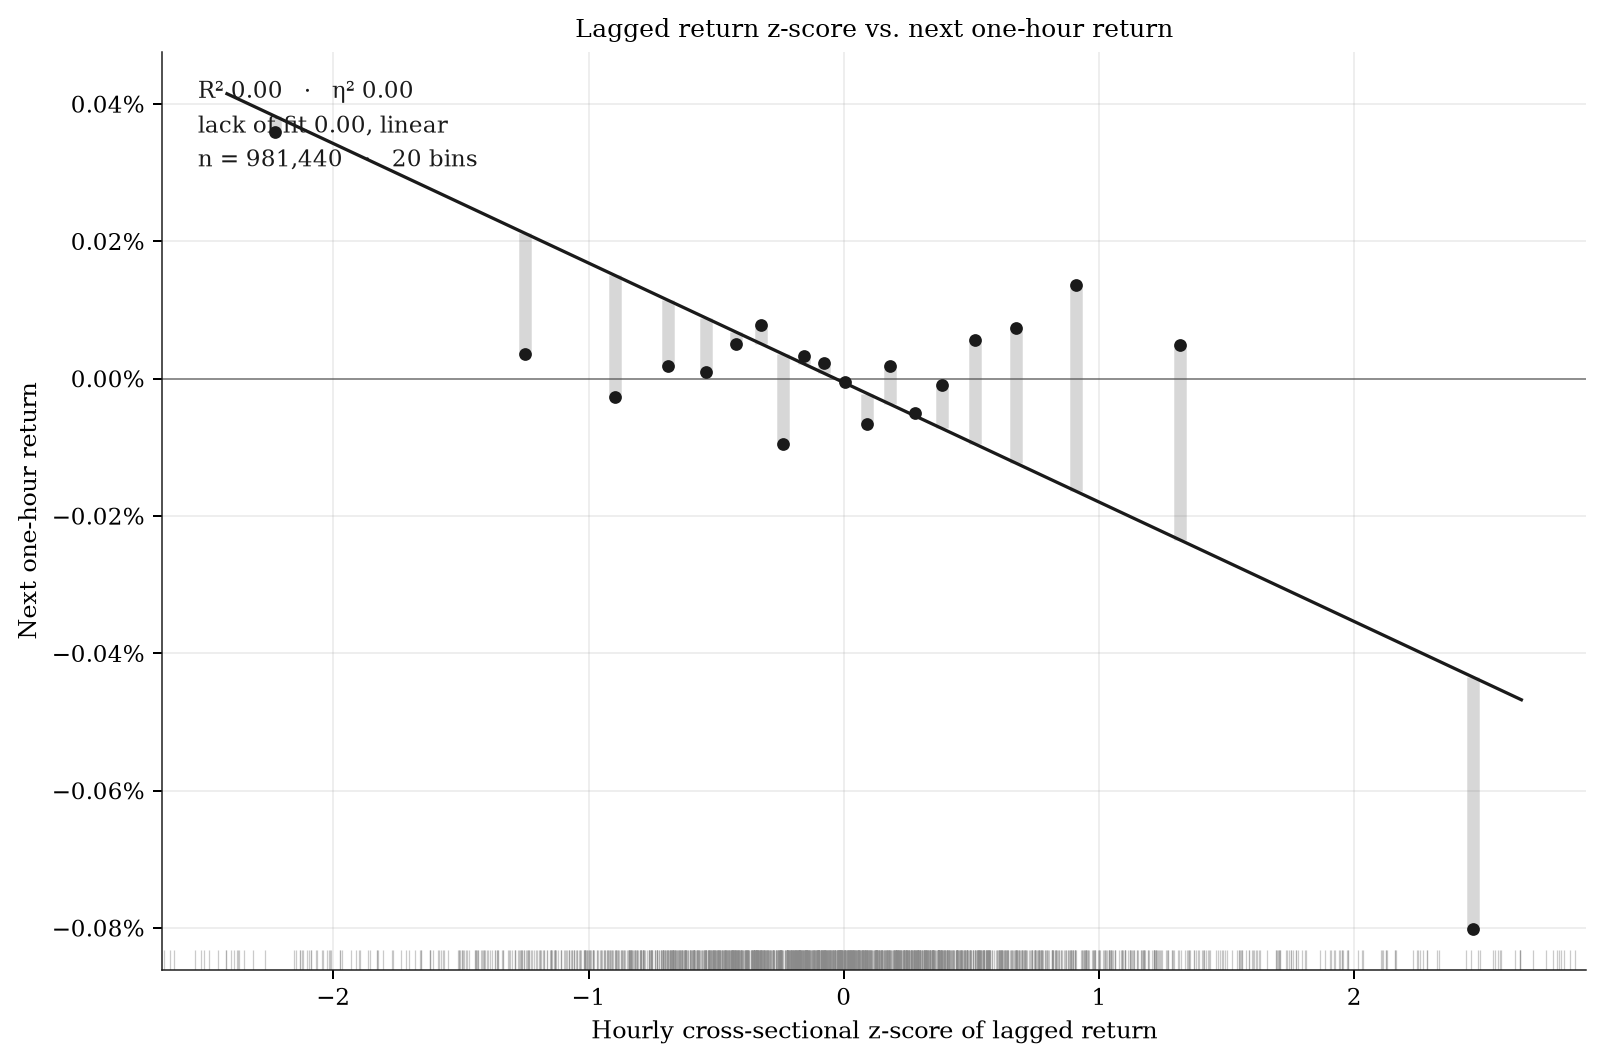
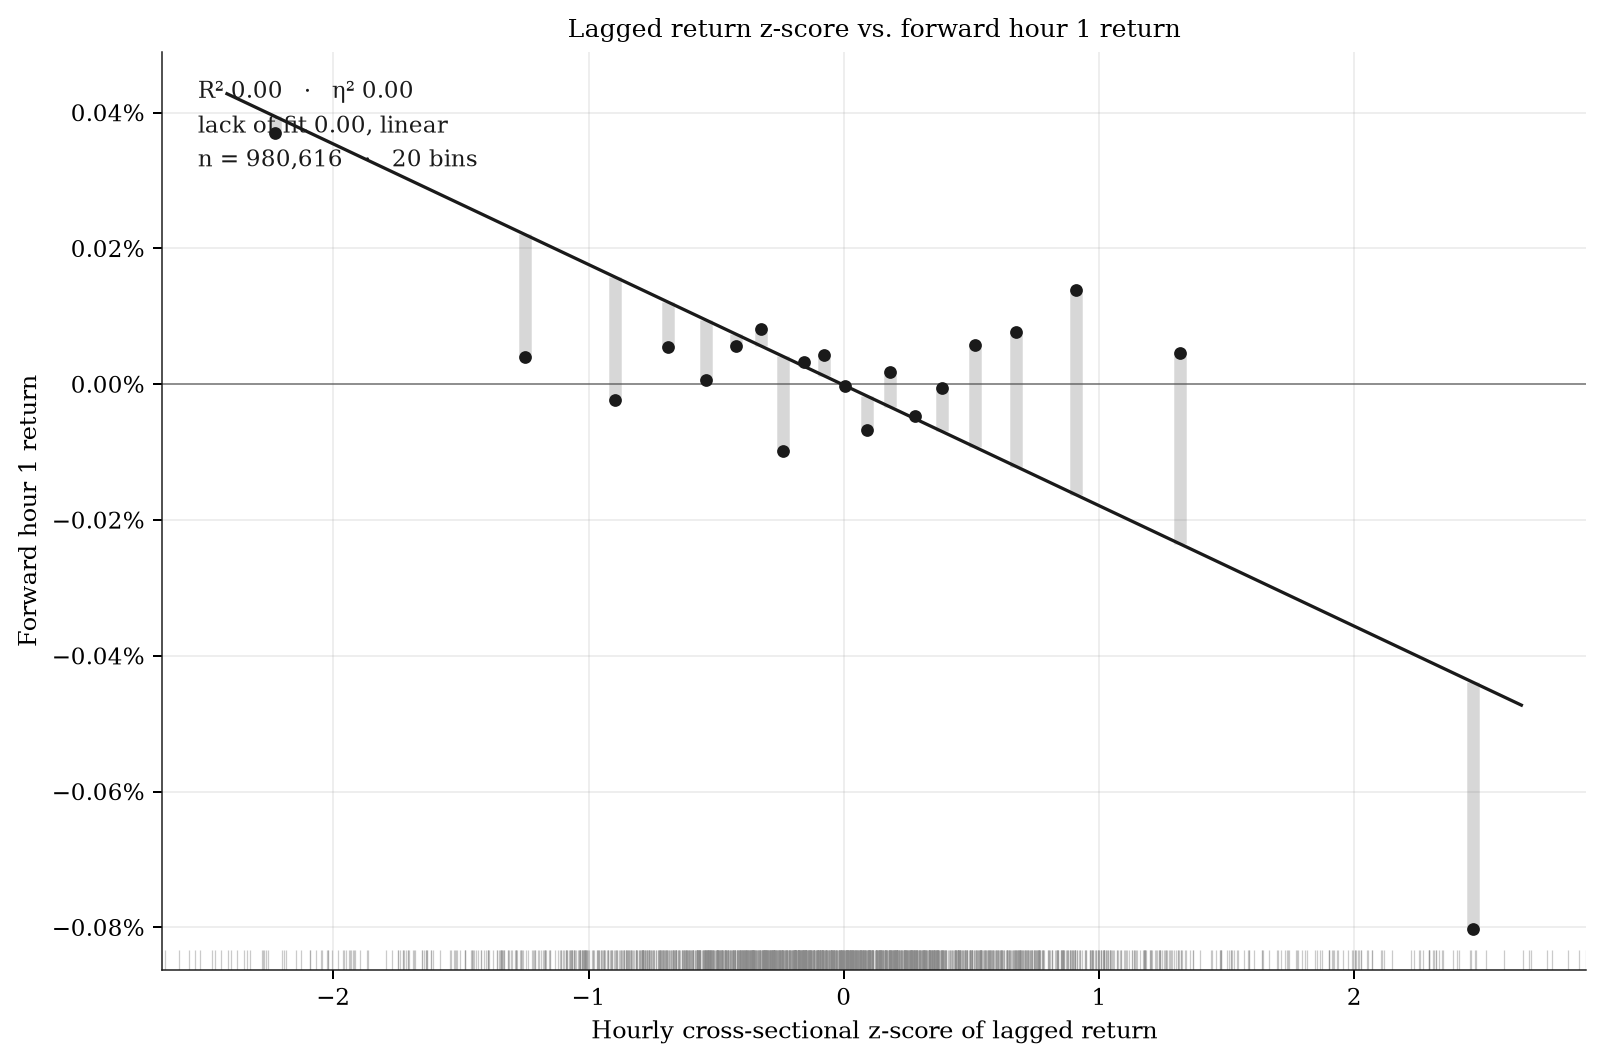
Analyze six individual forward-hour returns

diff --git a/examples/singapore_swindler_factor.py b/examples/singapore_swindler_factor.py
@@ -1,4 +1,4 @@
-"""Plot hourly lagged-return z-scores against the next one-hour return."""
+"""Plot lagged-return z-scores against six individual forward-hour returns."""
 
 from __future__ import annotations
 
@@ -13,6 +13,8 @@ from matplotlib.ticker import PercentFormatter
 
 import binspect
 
+HORIZONS = range(1, 7)
+FORWARD_COLUMNS = [f"next_{horizon}h_return" for horizon in HORIZONS]
 QUERY = """
 WITH standardized AS (
     SELECT factor_time,
@@ -24,25 +26,41 @@ WITH standardized AS (
     FROM factor_rankings
 )
 SELECT s.lagged_return_zscore,
-       (future.close / current.close) - 1 AS next_1h_return
+       (p1.close / p0.close) - 1 AS next_1h_return,
+       (p2.close / p1.close) - 1 AS next_2h_return,
+       (p3.close / p2.close) - 1 AS next_3h_return,
+       (p4.close / p3.close) - 1 AS next_4h_return,
+       (p5.close / p4.close) - 1 AS next_5h_return,
+       (p6.close / p5.close) - 1 AS next_6h_return
 FROM standardized s
-JOIN hourly_bars current
-  ON current.symbol = s.symbol
- AND current.open_time = s.factor_time
-JOIN hourly_bars future
-  ON future.symbol = s.symbol
- AND future.open_time = s.factor_time + 3600000
+JOIN hourly_bars p0
+  ON p0.symbol = s.symbol AND p0.open_time = s.factor_time
+JOIN hourly_bars p1
+  ON p1.symbol = s.symbol AND p1.open_time = s.factor_time + 3600000
+JOIN hourly_bars p2
+  ON p2.symbol = s.symbol AND p2.open_time = s.factor_time + 7200000
+JOIN hourly_bars p3
+  ON p3.symbol = s.symbol AND p3.open_time = s.factor_time + 10800000
+JOIN hourly_bars p4
+  ON p4.symbol = s.symbol AND p4.open_time = s.factor_time + 14400000
+JOIN hourly_bars p5
+  ON p5.symbol = s.symbol AND p5.open_time = s.factor_time + 18000000
+JOIN hourly_bars p6
+  ON p6.symbol = s.symbol AND p6.open_time = s.factor_time + 21600000
 WHERE s.lagged_return_zscore IS NOT NULL
-  AND current.close IS NOT NULL
-  AND current.close <> 0
-  AND future.close IS NOT NULL
+  AND p0.close IS NOT NULL AND p0.close <> 0
+  AND p1.close IS NOT NULL AND p1.close <> 0
+  AND p2.close IS NOT NULL AND p2.close <> 0
+  AND p3.close IS NOT NULL AND p3.close <> 0
+  AND p4.close IS NOT NULL AND p4.close <> 0
+  AND p5.close IS NOT NULL AND p5.close <> 0
+  AND p6.close IS NOT NULL
 ORDER BY s.factor_time, s.symbol
 """
 
 
 def load_data(database_url: str) -> pd.DataFrame:
-    x_values: list[float] = []
-    y_values: list[float] = []
+    columns: list[list[float]] = [[] for _ in range(7)]
     with (
         psycopg.connect(
             database_url.replace("postgresql+psycopg://", "postgresql://")
@@ -51,14 +69,24 @@ def load_data(database_url: str) -> pd.DataFrame:
     ):
         cursor.execute(QUERY)
         while rows := cursor.fetchmany(100_000):
-            x_values.extend(float(row[0]) for row in rows)
-            y_values.extend(float(row[1]) for row in rows)
+            for index, values in enumerate(zip(*rows, strict=True)):
+                columns[index].extend(float(value) for value in values)
     return pd.DataFrame(
         {
-            "lagged_return_zscore": np.asarray(x_values),
-            "next_1h_return": np.asarray(y_values),
+            "lagged_return_zscore": np.asarray(columns[0]),
+            **{
+                name: np.asarray(columns[index])
+                for index, name in enumerate(FORWARD_COLUMNS, 1)
+            },
         }
     )
+
+
+def style_axis(axis: plt.Axes, horizon: int) -> None:
+    axis.set_xlabel("Hourly cross-sectional z-score of lagged return")
+    axis.set_ylabel(f"Forward hour {horizon} return")
+    axis.yaxis.set_major_formatter(PercentFormatter(xmax=1.0, decimals=2))
+    axis.axhline(0, color="#555555", linewidth=0.7, alpha=0.7)
 
 
 def main() -> int:
@@ -69,48 +97,77 @@ def main() -> int:
     args = parser.parse_args()
 
     data = load_data(args.db)
-    result = binspect.binscatter(
-        data,
-        x="lagged_return_zscore",
-        y="next_1h_return",
-        bins=args.bins,
-        binning="quantile",
-        ci=None,
-    )
-
     args.output_dir.mkdir(parents=True, exist_ok=True)
-    with binspect.theme("paper"):
-        figure, axis = plt.subplots(figsize=(9, 6))
-    result.plot(
-        ax=axis,
-        theme="paper",
-        annotate="audit",
-        title="Lagged return z-score vs. next one-hour return",
-    )
-    axis.set_xlabel("Hourly cross-sectional z-score of lagged return")
-    axis.set_ylabel("Next one-hour return")
-    axis.yaxis.set_major_formatter(PercentFormatter(xmax=1.0, decimals=2))
-    axis.axhline(0, color="#555555", linewidth=0.7, alpha=0.7)
-    figure.tight_layout()
+    summary_rows: list[dict[str, float | int]] = []
+    results = []
 
-    plot_path = args.output_dir / "lagged_return_zscore_vs_next_1h_return.png"
-    table_path = args.output_dir / "lagged_return_zscore_vs_next_1h_bins.csv"
-    summary_path = args.output_dir / "lagged_return_zscore_vs_next_1h_summary.txt"
-    figure.savefig(plot_path, dpi=180, bbox_inches="tight")
-    result.table.to_csv(table_path, index=False)
-    correlation = data.corr().iloc[0, 1]
-    clean_summary = "\n".join(line.rstrip() for line in result.summary().splitlines())
-    summary_path.write_text(
-        f"Observations: {len(data):,}\n"
-        f"Pearson correlation: {correlation:.8f}\n\n"
-        f"{clean_summary}\n\n"
-        "Intervals are omitted because hourly and cross-sectional observations are "
-        "dependent; binspect's current intervals assume independence.\n",
-        encoding="utf-8",
+    for horizon, column in zip(HORIZONS, FORWARD_COLUMNS, strict=True):
+        result = binspect.binscatter(
+            data,
+            x="lagged_return_zscore",
+            y=column,
+            bins=args.bins,
+            binning="quantile",
+            ci=None,
+        )
+        results.append(result)
+        with binspect.theme("paper"):
+            figure, axis = plt.subplots(figsize=(9, 6))
+        result.plot(
+            ax=axis,
+            theme="paper",
+            annotate="audit",
+            title=f"Lagged return z-score vs. forward hour {horizon} return",
+        )
+        style_axis(axis, horizon)
+        figure.tight_layout()
+        figure.savefig(
+            args.output_dir / f"lagged_return_zscore_vs_next_{horizon}h_return.png",
+            dpi=180,
+            bbox_inches="tight",
+        )
+        plt.close(figure)
+        result.table.to_csv(
+            args.output_dir / f"lagged_return_zscore_vs_next_{horizon}h_bins.csv",
+            index=False,
+        )
+        summary_rows.append(
+            {
+                "forward_hour": horizon,
+                "observations": len(data),
+                "correlation": data[["lagged_return_zscore", column]].corr().iloc[0, 1],
+                "ols_slope": result.fit.slope,
+                "r_squared": result.fit.r_sq,
+                "lowest_z_bin_mean_return": result.table.iloc[0]["y_mean"],
+                "highest_z_bin_mean_return": result.table.iloc[-1]["y_mean"],
+            }
+        )
+
+    with binspect.theme("paper"):
+        combined, axes = plt.subplots(2, 3, figsize=(16, 9), sharex=True, sharey=True)
+    for horizon, result, axis in zip(HORIZONS, results, axes.flat, strict=True):
+        result.plot(
+            ax=axis,
+            theme="paper",
+            annotate=None,
+            title=f"Forward hour {horizon}",
+        )
+        style_axis(axis, horizon)
+    combined.suptitle("Lagged return z-score vs. six individual forward-hour returns")
+    combined.tight_layout()
+    combined.savefig(
+        args.output_dir / "lagged_return_zscore_vs_next_6_individual_hours.png",
+        dpi=180,
+        bbox_inches="tight",
     )
-    print(summary_path.read_text(encoding="utf-8"))
-    print(f"wrote {plot_path}")
-    print(f"wrote {table_path}")
+    plt.close(combined)
+
+    summary = pd.DataFrame(summary_rows)
+    summary.to_csv(
+        args.output_dir / "lagged_return_zscore_forward_hours_summary.csv", index=False
+    )
+    print(summary.to_string(index=False))
+    print(f"common complete-case observations: {len(data):,}")
     return 0
 
 
